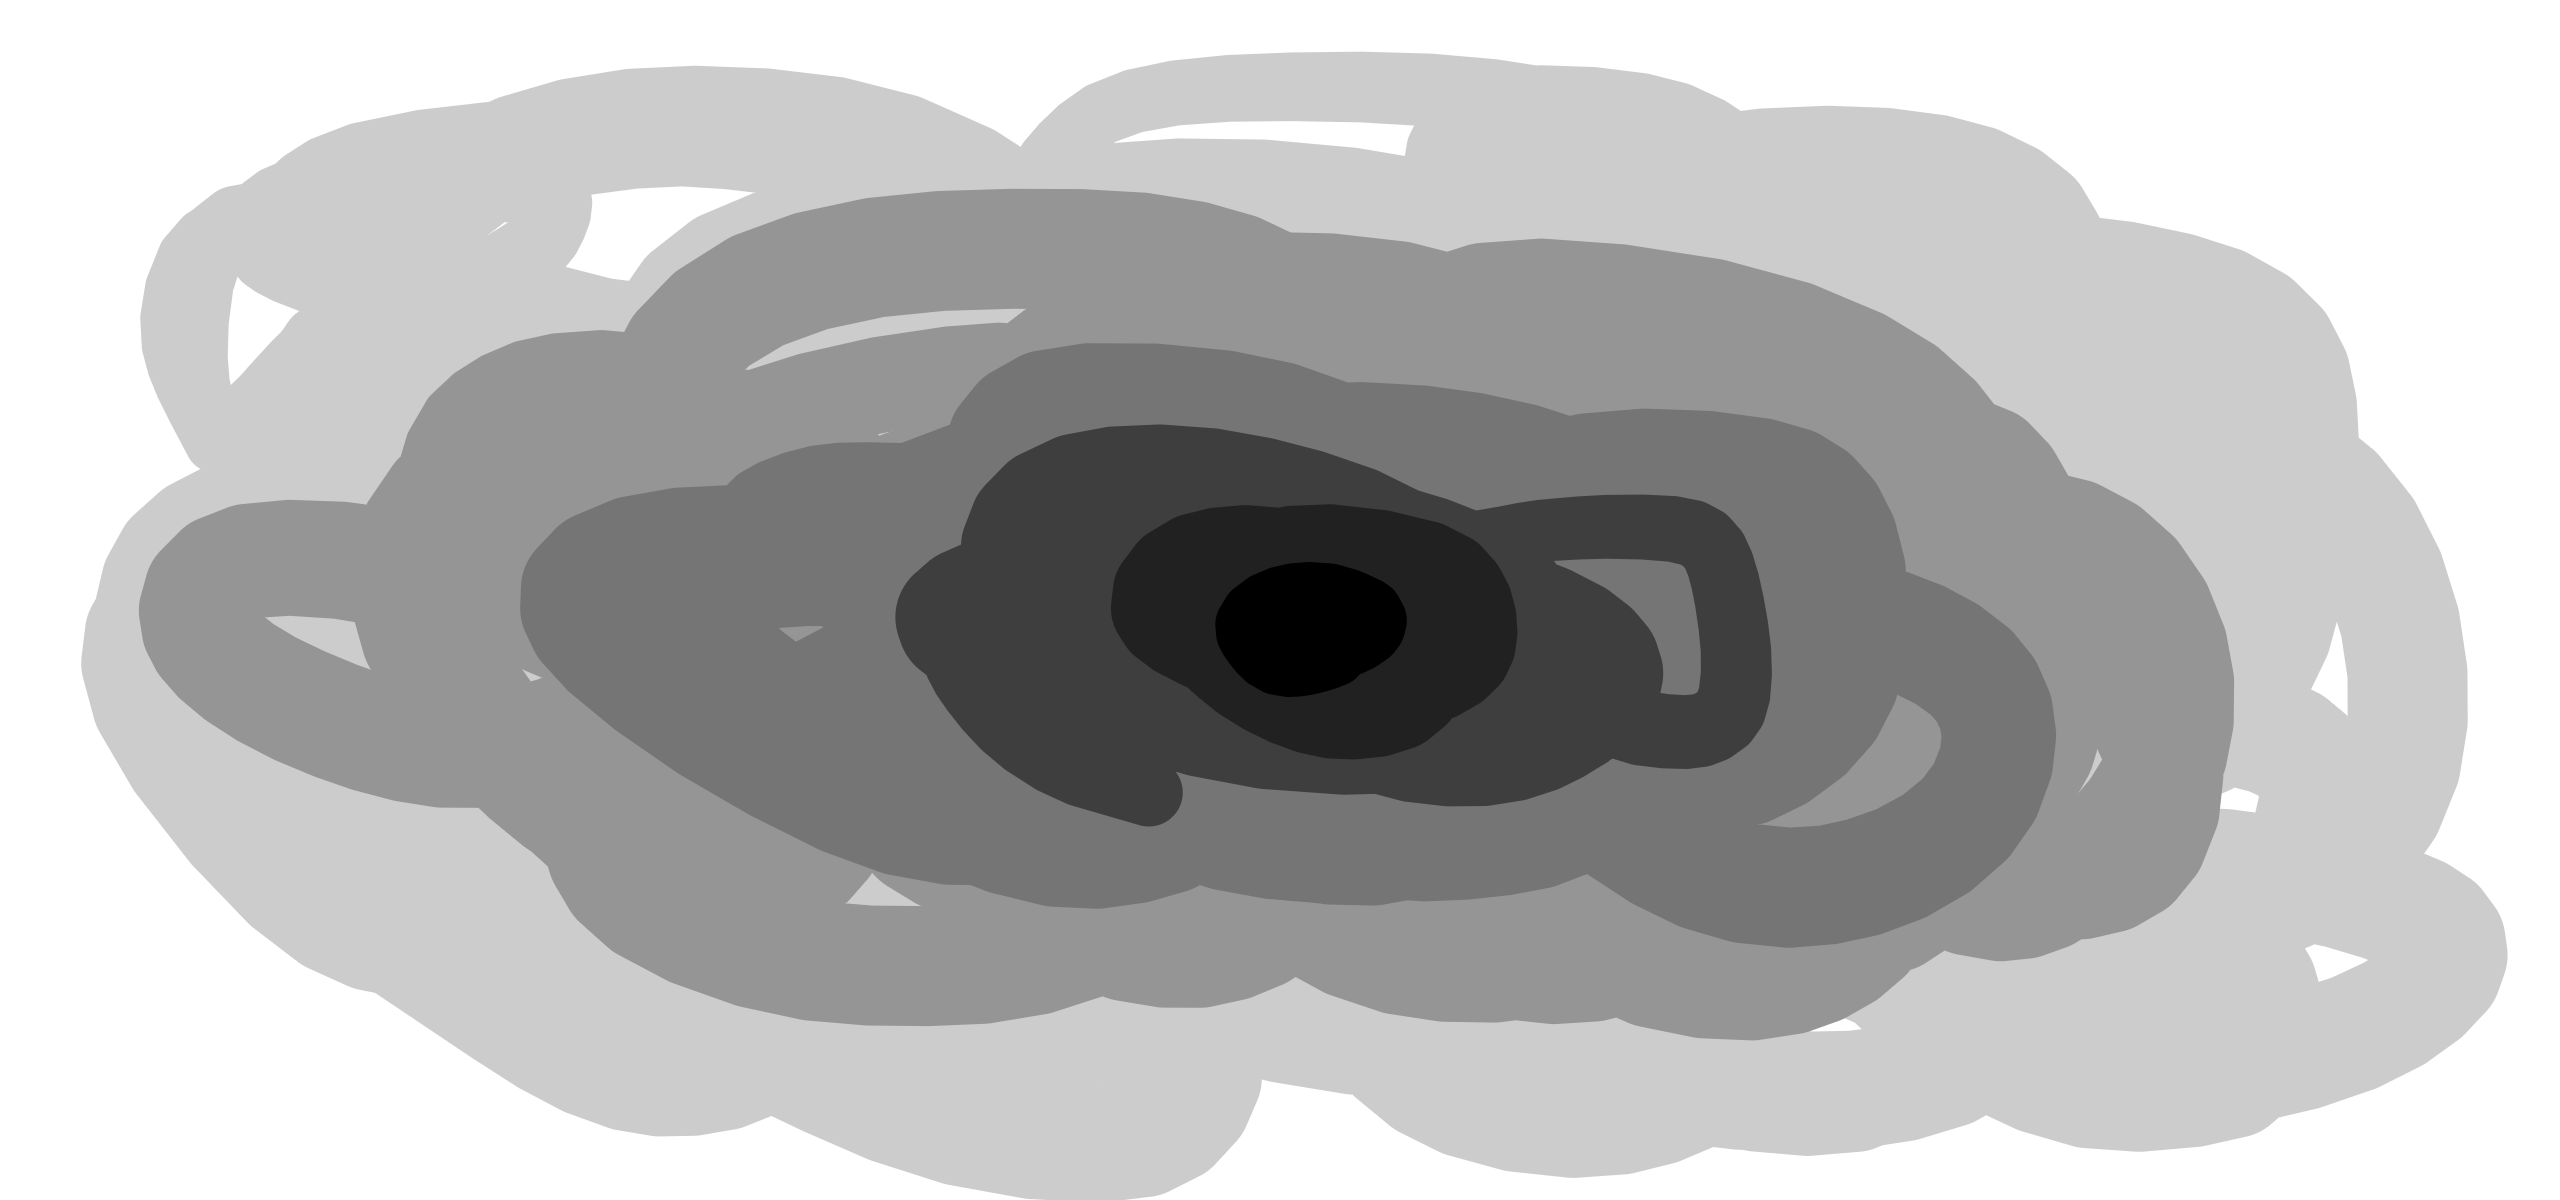
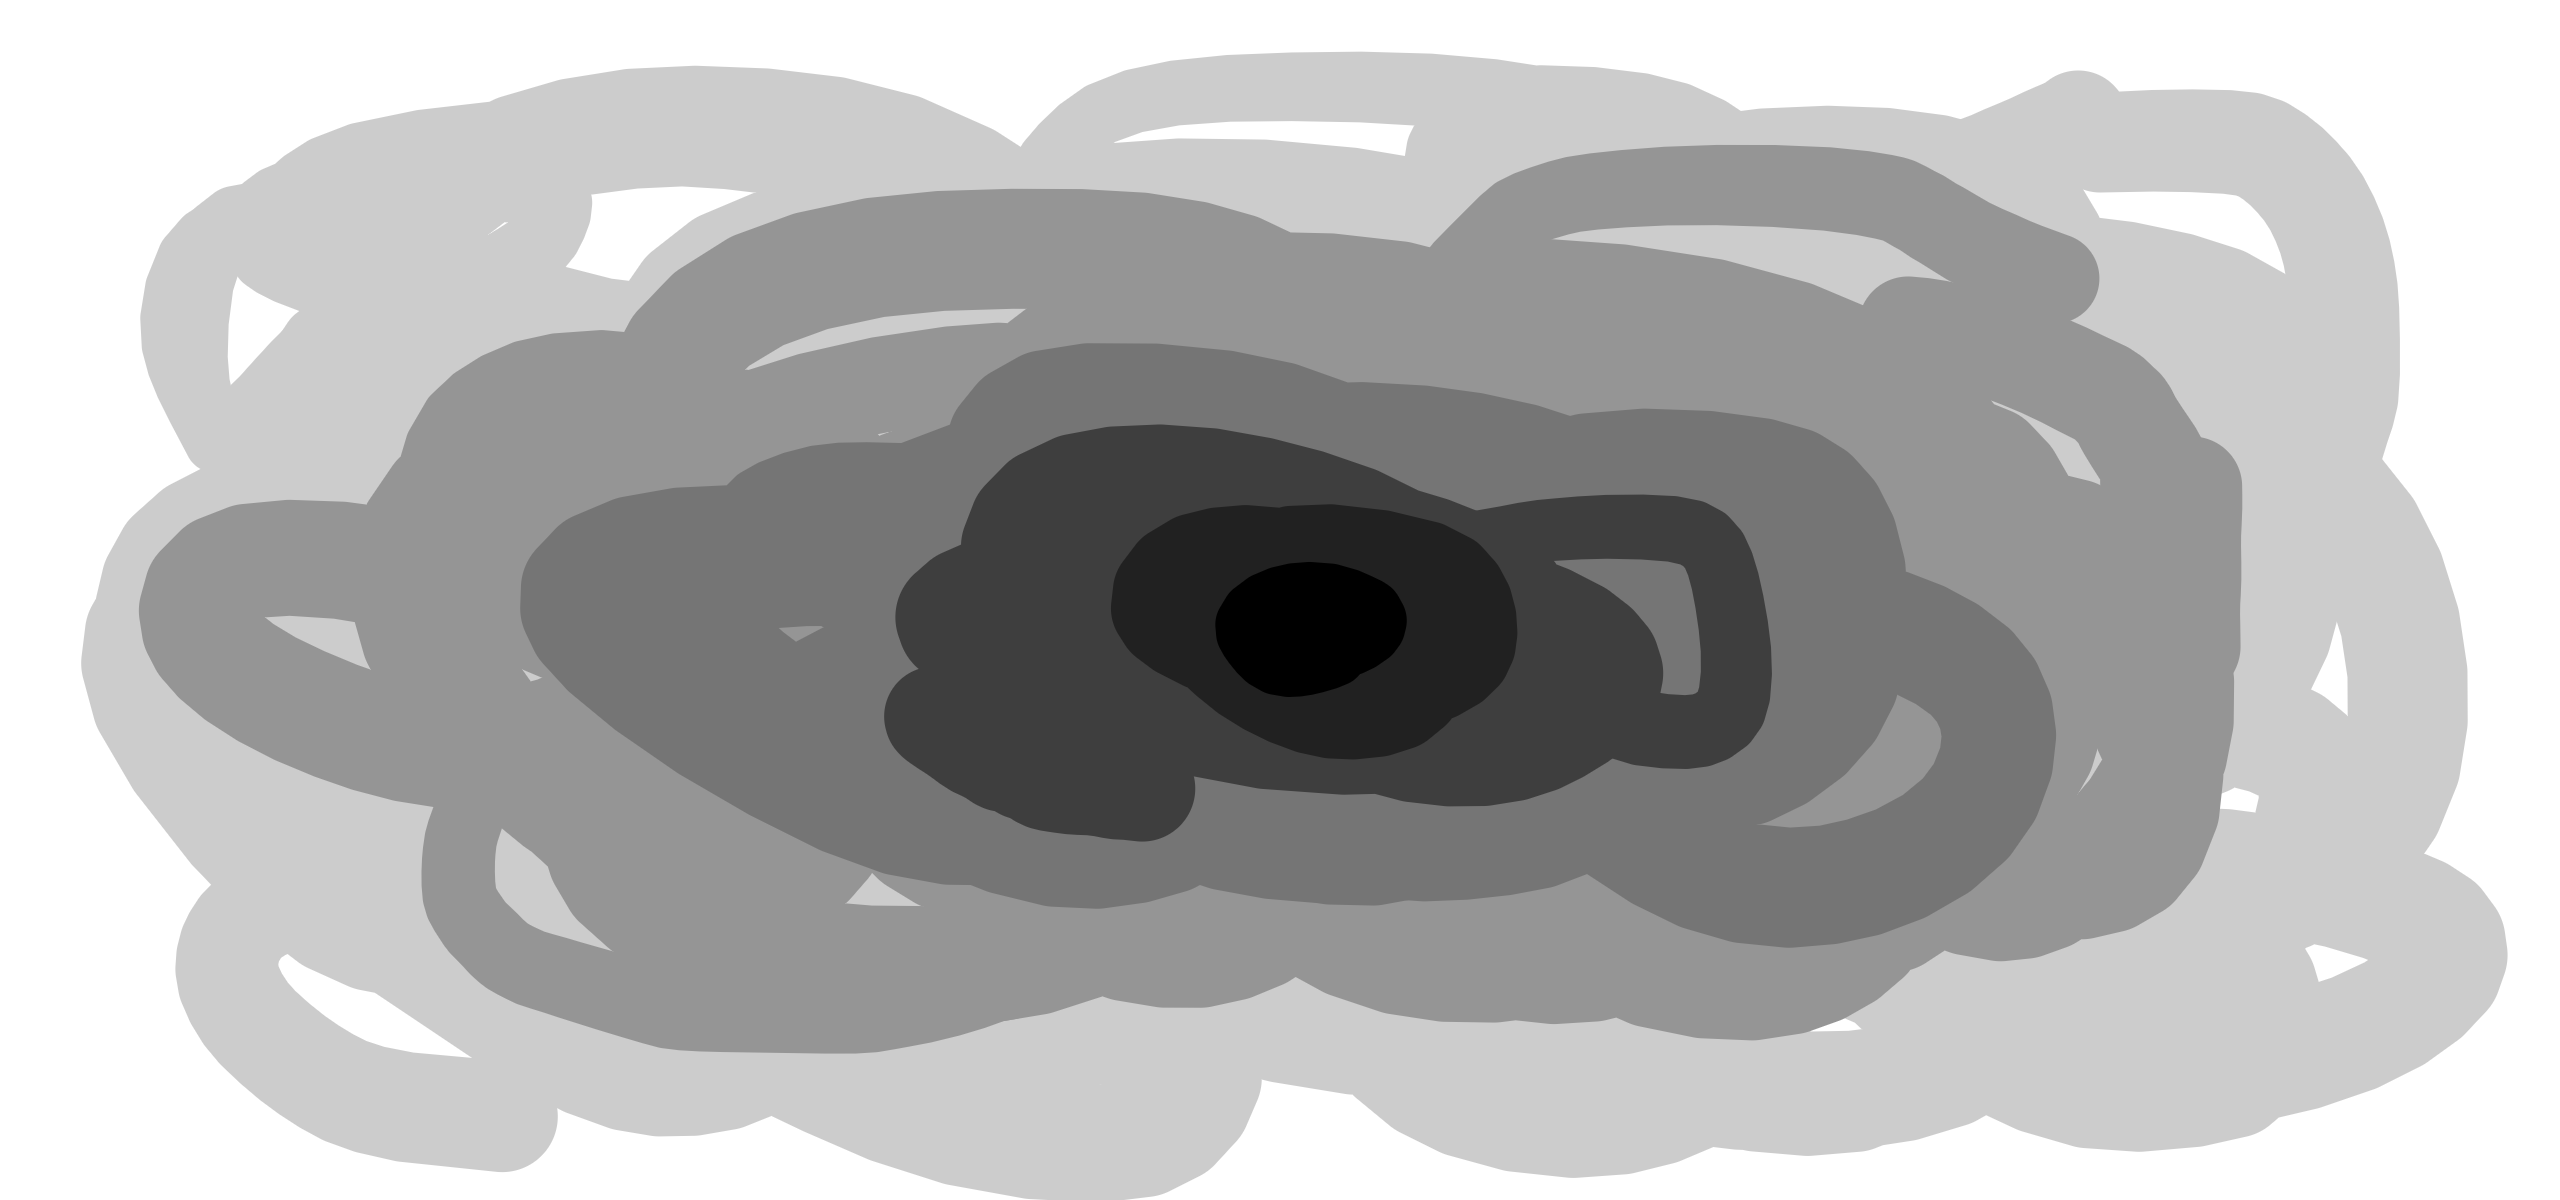
last monocharacter build ideally

diff --git a/TheDisplacedCode/Cards/rare/ThinkingOfYou.cs b/TheDisplacedCode/Cards/rare/ThinkingOfYou.cs
@@ -4,6 +4,7 @@ using MegaCrit.Sts2.Core.Commands;
 using MegaCrit.Sts2.Core.Commands.Builders;
 using MegaCrit.Sts2.Core.Entities.Cards;
 using MegaCrit.Sts2.Core.GameActions.Multiplayer;
+using MegaCrit.Sts2.Core.HoverTips;
 using MegaCrit.Sts2.Core.Localization.DynamicVars;
 using MegaCrit.Sts2.Core.Models;
 using MegaCrit.Sts2.Core.ValueProps;
@@ -20,15 +21,20 @@ public class ThinkingOfYou() : TheDisplacedCard(1, CardType.Skill, CardRarity.Ra
     [
         CardKeyword.Exhaust
     ];
+    
+    protected override IEnumerable<IHoverTip> ExtraHoverTips => 
+    [
+        HoverTipFactory.FromKeyword(DisplacedKeywords.Cherished)
+    ];
 
     protected override async Task OnPlay(
         PlayerChoiceContext choiceContext,
         CardPlay play)
     {
-        CardSelectorPrefs prefs = new CardSelectorPrefs(SelectionScreenPrompt, 1);
-        CardModel selectedCard = (await CardSelectCmd.FromHand(choiceContext, Owner, prefs, null, this)).FirstOrDefault<CardModel>();
-        if(selectedCard == null) return;
-        CardCmd.ApplyKeyword(selectedCard, DisplacedKeywords.Cherished);
+        foreach (CardModel card in PileType.Hand.GetPile(Owner).Cards)
+        {
+            CardCmd.ApplyKeyword(card, DisplacedKeywords.Cherished);
+        }
     }
     
     protected override void OnUpgrade() => EnergyCost.UpgradeBy(-1);

diff --git a/TheDisplacedCode/Cards/rare/ThinkTwice.cs b/TheDisplacedCode/Cards/rare/ThinkTwice.cs
@@ -1,0 +1,36 @@
+using MegaCrit.Sts2.Core.Commands;
+using MegaCrit.Sts2.Core.Entities.Cards;
+using MegaCrit.Sts2.Core.GameActions.Multiplayer;
+using MegaCrit.Sts2.Core.Localization.DynamicVars;
+using TheDisplaced.TheDisplacedCode.Cards;
+
+namespace TheDisplaced.TheDisplacedCode.Cards.rare;
+
+public class ThinkTwice() : TheDisplacedCard(0,
+    CardType.Skill, CardRarity.Rare,
+    TargetType.Self)
+{
+    protected override IEnumerable<DynamicVar> CanonicalVars => [
+        new CardsVar(1),
+        new EnergyVar(1)
+    ];
+    
+    public override IEnumerable<CardKeyword> CanonicalKeywords =>
+    [
+        DisplacedKeywords.Cherished,
+        CardKeyword.Exhaust
+    ];
+
+    protected override async Task OnPlay(
+        PlayerChoiceContext choiceContext,
+        CardPlay play)
+    {
+        await CardPileCmd.Draw(choiceContext, DynamicVars.Cards.BaseValue, Owner);
+        await PlayerCmd.GainEnergy(DynamicVars.Energy.BaseValue, Owner);
+    }
+
+    protected override void OnUpgrade()
+    {
+        DynamicVars.Cards.UpgradeValueBy(1);
+    }
+}

diff --git a/TheDisplacedCode/Cards/rare/Monsoon.cs b/TheDisplacedCode/Cards/rare/Monsoon.cs
@@ -2,6 +2,7 @@
 using MegaCrit.Sts2.Core.Commands;
 using MegaCrit.Sts2.Core.Entities.Cards;
 using MegaCrit.Sts2.Core.GameActions.Multiplayer;
+using MegaCrit.Sts2.Core.HoverTips;
 using MegaCrit.Sts2.Core.Localization.DynamicVars;
 using MegaCrit.Sts2.Core.Models;
 
@@ -16,6 +17,11 @@ public class Monsoon() : TheDisplacedCard(2,
     public override IEnumerable<CardKeyword> CanonicalKeywords => 
     [
         CardKeyword.Exhaust
+    ];
+    
+    protected override IEnumerable<IHoverTip> ExtraHoverTips => 
+    [
+        HoverTipFactory.FromKeyword(CardKeyword.Exhaust)
     ];
 
     protected override async Task OnPlay(

diff --git a/TheDisplacedCode/MainFile.cs b/TheDisplacedCode/MainFile.cs
@@ -47,6 +47,7 @@ class CardCmdExhaustPatch
     {
         if (card.Keywords.Contains(DisplacedKeywords.Cherished))
         {
+            card.RemoveKeyword(DisplacedKeywords.Cherished);
             __result = Task.CompletedTask;
             return false;
         }
@@ -67,6 +68,7 @@ class CardPlayResultPilePatch
     {
         if (__instance.Keywords.Contains(DisplacedKeywords.Cherished) && __result == PileType.Exhaust)
         {
+            __instance.RemoveKeyword(DisplacedKeywords.Cherished);
             __result = PileType.Discard;
         }
     }
